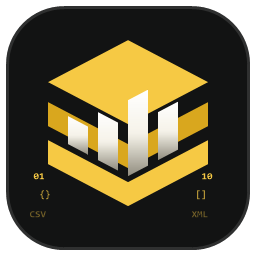
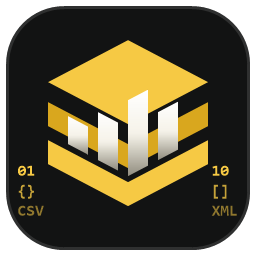
Icono: rótulos CSV/XML visibles en tamaños chicos; versión 2.0.1

Changed region(s): [[0.75, 0.625, 0.9375, 0.8438], [0.0625, 0.625, 0.2188, 0.875]]

diff --git a/CHANGELOG.md b/CHANGELOG.md
@@ -2,6 +2,12 @@
 
 Formato basado en [Keep a Changelog](https://keepachangelog.com/es-ES/1.1.0/). Las versiones siguen [SemVer](https://semver.org/lang/es/).
 
+## [2.0.1] — 2026-11-01
+
+### Cambiado
+- Icono: los rótulos `01 {} CSV` y `10 [] XML` de los costados ahora son más grandes y se ven también en el escritorio y la barra de tareas (antes solo aparecían desde 64 px).
+- La ventana se limita al área útil de la pantalla.
+
 ## [2.0.0] — 2026-10-18
 
 Versión grande: la app pasa de herramienta externa de un solo uso a una aplicación completa.
